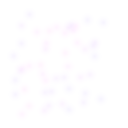
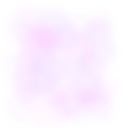
captions

diff --git a/main.py b/main.py
@@ -101,6 +101,52 @@ class particle_system:
             for i in range(4):
                 particle[i] += particle[i+2]
 
+class caption:
+    """
+    Some text and other data, collectively representing a caption
+    """
+    def __init__(self,texts,colors=None):
+        global width,height
+        self.texts = texts.split('\n') if type(texts)==str else list(map(str,texts)) # Force string type
+        self.x = drift(0.1,width/2)
+        self.y = drift(0.1,200,120)
+        self.alpha = drift(0.1,1,0) # Alpha
+        self.color = {'rgb':0} if colors is None else {colors[0]:colors[1]}
+    def alive(self):
+        """
+        Is it live?
+        Return false to signal it needs to die
+        """
+        return float(self.alpha)>=0
+    def kill(self):
+        """
+        Time to die
+        """
+        self.y.target = 240
+        self.alpha.target = -0.1
+    def draw(self):
+        """
+        Render the caption
+        """
+        global width,height
+        setfont(None,-1,30)
+        setcolor(**self.color)
+        setpolyclip()
+        x = self.x
+        y = self.y
+        x.step()
+        y.step()
+        x = float(x)
+        y = float(y)
+        ialpha = self.alpha
+        ialpha.step()
+        ialpha = float(ialpha)
+        if ialpha<=0:return
+        for text in self.texts:
+            image = alpha(render(text),ialpha)
+            drawimage(image,(x,y))
+            y -= 40
+
 class choice_button:
     """
     A button representing a choice
@@ -114,7 +160,7 @@ class choice_button:
         image = render(text) # Dummy, use to get width
         self.width = iwidth = image.getWidth()
         self.x = drift(0.1,width-40,width+iwidth)
-        self.y = drift(0.1,height-index*50-70,height-index*50-70)
+        self.y = drift(0.1,height-index*50-70)
     def hit(self,xy):
         """
         Does the point xy lie on the button?
@@ -133,9 +179,9 @@ class choice_button:
         Pass flag hover to indicate if the mouse is hovering
         """
         global width,height,button_glow,particle_systems
+        setcolor(rgb=0.02)
         img_glow = button_glow[4 if hover else 0]
         particles = particle_systems[self.index]
-        setcolor(rgb=0.02)
         image = render(self.text)
         self.width = iwidth = image.getWidth()
         ix = self.x
@@ -146,8 +192,8 @@ class choice_button:
         iy = float(iy)
         left = ix-iwidth-40
         by = iy-20,iy+20
-        setpolyclip([[width,by[0]],[width,by[1]],[left+10,by[1]],[left,iy],[left+10,by[0]]])
         setcolor(rgb=0.95)
+        setpolyclip([[width,by[0]],[width,by[1]],[left+10,by[1]],[left,iy],[left+10,by[0]]])
         fill()
         particles.step()
         ox,oy = width,iy
@@ -177,24 +223,24 @@ def draw_meter():
     love_meter_particle_system.step()
     particles = love_meter_particle_system.particles
     # Lower half
+    setcolor(rgb=0.95)
     img_glow = button_glow[0]
     setpolyclip([[ix-30,40],[ix,30],[ix+30,40],[ix+30,iy],[ix-30,iy]])
-    setcolor(rgb=0.95)
     fill()
     for particle in particles:
         px,py = particle[0:2]
         drawimage(img_glow,(px,py))
     # Upper half
+    setcolor(rgb=0.95)
     img_glow = button_glow[3]
     setpolyclip([[ix-30,height-40],[ix,height-30],[ix+30,height-40],[ix+30,iy],[ix-30,iy]])
-    setcolor(rgb=0.95)
     fill()
     for particle in particles:
         px,py = particle[0:2]
-        drawimage(img_glow,(px,py))
+        drawimage(img_glow,(px,py+height/2))
     # Text
-    setpolyclip()
     setcolor(rgb=0.02)
+    setpolyclip()
     drawimage(render('Hate'),(ix+40,40),xalign=0)
     drawimage(render('Love'),(ix+40,height-40),xalign=0)
 
@@ -223,21 +269,50 @@ def draw_timer():
     itimer_size = float(timer_size)
     timer_radius = itimer_size*1.8
     if oy<height+timer_radius:
-        setpolyclip([[ox+timer_radius*cos(i*pi/32),oy+timer_radius*sin(i*pi/32)] for i in range(64)])
         setcolor(rgb=0.95)
+        setpolyclip([[ox+timer_radius*cos(i*pi/32),oy+timer_radius*sin(i*pi/32)] for i in range(64)])
         fill()
         img_glow = button_glow[2]
         timer_particle_system.step()
         for particle in timer_particle_system.particles:
             px,py = particle[0:2]
             drawimage(img_glow,(px+ox,py+oy))
+    setcolor(rgb=0.02)
     setfont(None,-1,int(itimer_size))
     setpolyclip()
-    setcolor(rgb=0.02)
     timer_img = render(timer_str)
     drawimage(timer_img,(ox,oy),yalign=1.2)
 
+def draw_captions():
+    """
+    Handles drawing of captions
+    """
+    global width,height,captions,caption_y,caption_particle_system,button_glow
+    for i in range(len(captions)-1,-1,-1):
+        capt = captions[i]
+        if not capt.alive():
+            captions.pop(i)
+    caption_y.target = 0 if len(captions) else -250
+    caption_y.step()
+    ox,oy = width/2,float(caption_y)
+    if oy>-230:
+        bx = 240,width-240
+        by = 0,oy+230
+        setcolor(rgb=0.95)
+        setpolyclip([[bx[0]-40,by[0]],[bx[1]+40,by[0]],[bx[1],by[1]],[bx[0],by[1]]])
+        fill()
+        img_glow = button_glow[1]
+        caption_particle_system.step()
+        for particle in caption_particle_system.particles:
+            px,py = particle[0:2]
+            drawimage(img_glow,(px+ox,py+oy))
+        for capt in captions:
+            capt.draw()
+
 def onclick(etype,exy,ebutton):
+    """
+    Handles mouse events
+    """
     global buttons
     if etype=='click' and ebutton==1:
         rbutton = None
@@ -257,6 +332,14 @@ def clear_buttons():
         button.x.target+=uniform(-40,40)
         button.y.target=height+uniform(40,80)
 
+def clear_captions():
+    """
+    Gets rid of the current captions
+    """
+    global captions
+    for capt in captions:
+        capt.kill()
+
 def fw_branch_to(*others):
     """
     Returns a function which pushes away all current buttons and adds the given buttons
@@ -264,6 +347,7 @@ def fw_branch_to(*others):
     def ifw_branch_to():
         global buttons
         clear_buttons()
+        clear_captions()
         timer_set(None)
         for index,params in enumerate(others):
             text = params[0]
@@ -327,25 +411,42 @@ def fw_timer_set(seconds,func=None):
         timer_set(seconds,func)
     return ifw_timer_set
 
+def fw_caption_set(*args):
+    """
+    Return a function to clear all captions and set it to the given
+    """
+    def ifw_caption_set():
+        global captions
+        clear_captions()
+        captions.append(caption(*args))
+    return ifw_caption_set
+
 # Initialize globals
+base_particles = 100
 setfont(None,-1,24)
 love_meter = drift(0.03,0.5) # 0 = hate, 1 = love
 love_meter_x = drift(0.03,-200)
-love_meter_particle_system = particle_system([[-200,-80],[0,height]],[[0,2],[-1,1]],[[-0.01,0.01],[-0.01,0.01]],height,500,1)
+love_meter_particle_system = particle_system([[-200,-80],[-height/2,height/2]],[[0,2],[-1,1]],[[-0.01,0.01],[-0.01,0.01]],height/2+100,5*base_particles,1)
 timer_time = None
 timer_func = None
 timer_size = drift(0.1,80)
 timer_y = drift(0.1,height+300)
-timer_particle_system = particle_system([[-80,80],[80,200]],[[-1,1],[-2,0]],[[-0.01,0.01],[-0.01,0.01]],300,200,1)
+timer_particle_system = particle_system([[-80,80],[80,200]],[[-1,1],[-2,0]],[[-0.01,0.01],[-0.01,0.01]],300,2*base_particles,1)
+captions = []
+caption_y = drift(0.1,-250)
+caption_particle_system = particle_system([[-width/2,width/2],[-200,-80]],[[-1,1],[0,2]],[[-0.01,0.01],[-0.01,0.01]],width,10*base_particles,2)
 buttons = []
 button_glow = [loadimage('glow'+str(i)+'.png') for i in range(1,6)]
-particle_systems = [particle_system([[80,200],[-80,80]],[[-4,-1],[-2,2]],[[-0.02,0.02],[-0.02,0.02]],width,500,1) for _ in range(8)]
-for particles in particle_systems+[love_meter_particle_system,timer_particle_system]:
-    for _ in range(100):
+particle_systems = [particle_system([[80,200],[-80,80]],[[-4,-1],[-2,2]],[[-0.02,0.02],[-0.02,0.02]],width,5*base_particles,1) for _ in range(8)]
+for particles in particle_systems+[love_meter_particle_system,timer_particle_system,caption_particle_system]:
+    for _ in range(200):
         particles.step()
 
 # Test menu items
-p_menu_1 = fw_branch_to(['1 -> 2','p_menu_2'],['1 -> 3','p_menu_3'],['1 -> 1','p_menu_1'])
+p_menu_1 = fw_exec_all(fw_branch_to(['...','p_menu_1a']),fw_caption_set('So basically'),)
+p_menu_1a = fw_exec_all(fw_branch_to(['...','p_menu_1b']),fw_caption_set('This is how dialogue will work'))
+p_menu_1b = fw_exec_all(fw_branch_to(['...','p_menu_1c']),fw_caption_set('We\'ll give each character\ntheir own colour\nor something like that',('hsv',(0.6,0.8,0.8))))
+p_menu_1c = fw_branch_to(['1 -> 2','p_menu_2'],['1 -> 3','p_menu_3'],['1 -> 1','p_menu_1'])
 p_menu_2 = fw_branch_to(['2 -> 3','p_menu_3'],['2 -> 1','p_menu_1'],['2 -> 2','p_menu_2'])
 p_menu_3 = fw_branch_to(['3 -> 1','p_menu_1'],['3 -> 2','p_menu_2'],['3 -> 3','p_menu_3'],['3 -> 4','p_menu_4'])
 p_menu_4 = fw_exec_all(fw_branch_to(['4 -> 1','p_menu_1'],['4 -> 2','p_menu_2']),fw_timer_set(10,'p_menu_5'))
@@ -366,3 +467,4 @@ for _ in mainloop():
             buttons.pop(i)
     draw_meter()
     draw_timer()
+    draw_captions()
